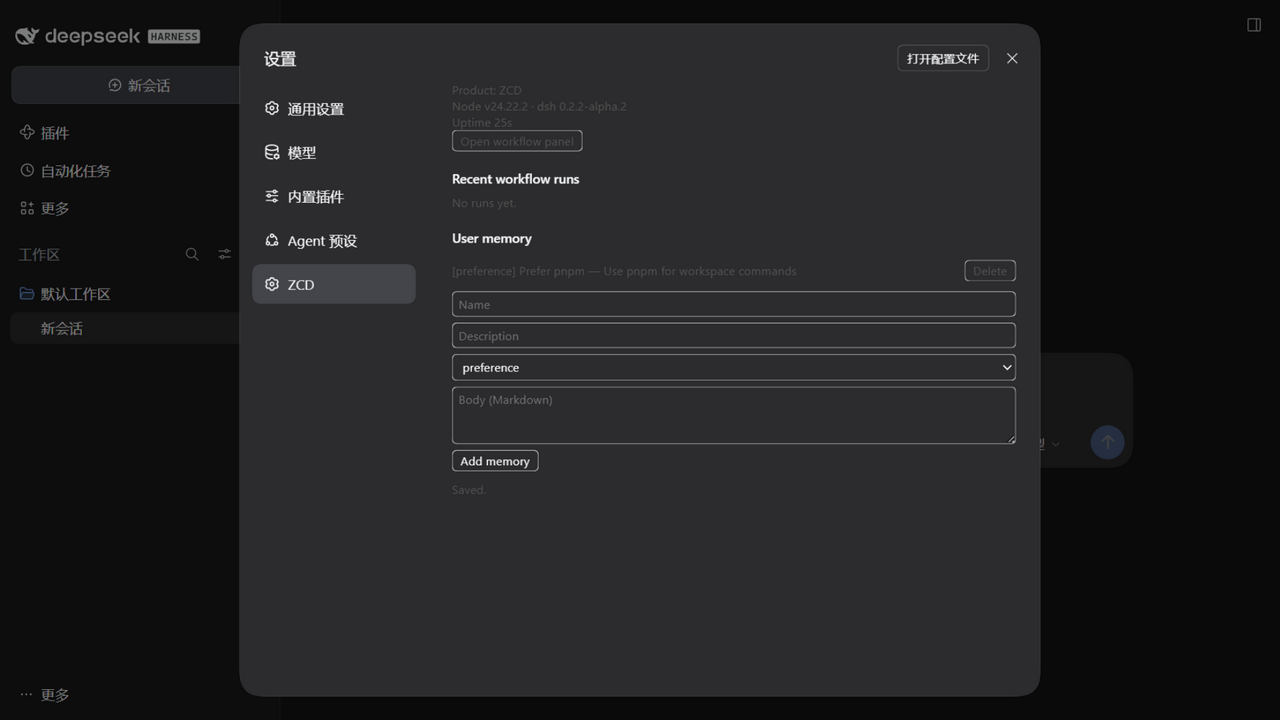
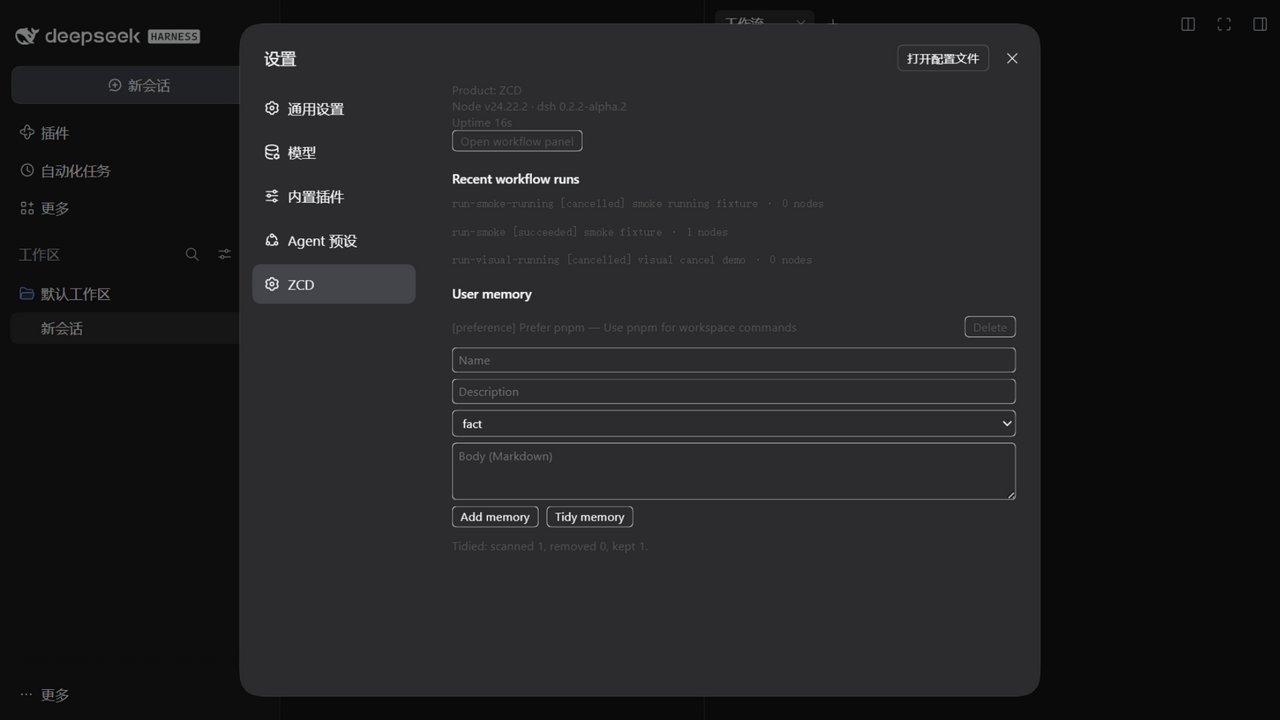
feat(P4): tidy user memory from the settings page

diff --git a/packages/client-ui-settings-zcd/client.js b/packages/client-ui-settings-zcd/client.js
@@ -61,6 +61,18 @@ window.__ModuleLoader__.load({
           .catch((reason) => setMessage(String(reason?.message ?? reason)))
           .finally(() => setBusy(false))
       }
+      const dream = () => {
+        setBusy(true)
+        fetch('/zcd/memory/dream', { method: 'POST' })
+          .then((response) => response.ok ? response.json() : Promise.reject(new Error(String(response.status))))
+          .then((value) => {
+            const report = value.report ?? {}
+            setMessage(`Tidied: scanned ${report.scanned ?? 0}, removed ${report.removed ?? 0}, kept ${report.kept ?? 0}.`)
+            loadMemory()
+          })
+          .catch((reason) => setMessage(String(reason?.message ?? reason)))
+          .finally(() => setBusy(false))
+      }
       const remove = (id) => {
         setBusy(true)
         fetch(`/zcd/memory/${id}`, { method: 'DELETE' })
@@ -135,13 +147,22 @@ window.__ModuleLoader__.load({
           rows: 3,
           style: { ...inputStyle, resize: 'vertical' },
         }),
-        jsx('button', {
-          type: 'button',
-          style: buttonStyle,
-          disabled: busy,
-          onClick: submit,
-          children: busy ? 'Saving…' : 'Add memory',
-        }),
+        jsxs('div', { style: { display: 'flex', gap: '8px' }, children: [
+          jsx('button', {
+            type: 'button',
+            style: buttonStyle,
+            disabled: busy,
+            onClick: submit,
+            children: busy ? 'Saving…' : 'Add memory',
+          }),
+          jsx('button', {
+            type: 'button',
+            style: buttonStyle,
+            disabled: busy,
+            onClick: dream,
+            children: 'Tidy memory',
+          }),
+        ] }),
         message === undefined ? null : jsx('div', { style: cell, children: message }),
       ] })
       return jsxs('div', { style: { display: 'grid', gap: '14px' }, children: [identity, runsBlock, memoryBlock] })

diff --git a/packages/memory-ui-host/src/index.ts b/packages/memory-ui-host/src/index.ts
@@ -97,6 +97,20 @@ export function apply(ctx: Context): void {
         return
       }
 
+      if (url.pathname === '/zcd/memory/dream') {
+        if (req.method !== 'POST') {
+          res.writeHead(405, { allow: 'POST' })
+          res.end()
+          return
+        }
+        try {
+          json(res, 200, { report: ctx.memory.dream('user', undefined) })
+        } catch (error: unknown) {
+          json(res, 500, { error: error instanceof Error ? error.message : 'dream-failed' })
+        }
+        return
+      }
+
       const id = /^\/zcd\/memory\/([A-Za-z0-9_-]+)$/.exec(url.pathname)?.[1]
       if (id !== undefined && req.method === 'DELETE') {
         try {

diff --git a/docs/13-implementation-status.md b/docs/13-implementation-status.md
@@ -57,8 +57,8 @@
 | `@zcd/client-ui-genui` | lazy-CJS：`visualize` 结果渲染为沙箱 iframe | 进入 boot graph | smoke 检查；会话内卡片待模型会话验收 |
 | `@zcd/status-host` | `/zcd/status`：Node/dsh/uptime/最近 runs | 激活成功 | smoke 200 |
 | `@zcd/workflow-ui-host` | `/zcd/workflow/runs` 列表、`/<id>` JSON、`/<id>/nodes`、`/<id>/events`、`POST /<id>/cancel`、`POST /<id>/resume` | 激活成功 | smoke：fixture 列表/节点/事件/cancel + resume 409 契约 |
-| `@zcd/memory-ui-host` | `GET/POST /zcd/memory`、`DELETE /zcd/memory/<id>`（仅 user scope） | 激活成功 | smoke 增删查往返 |
-| `@zcd/client-ui-settings-zcd` | `settings.section` 的 ZCD 页：运行环境、最近 runs、**用户记忆增删** | **视觉验收通过** | [截图](assets/zcd-settings-memory.png) + smoke |
+| `@zcd/memory-ui-host` | `GET/POST /zcd/memory`、`DELETE /zcd/memory/<id>`、`POST /zcd/memory/dream`（仅 user scope） | 激活成功 | smoke 增删查 + dream 往返 |
+| `@zcd/client-ui-settings-zcd` | `settings.section` 的 ZCD 页：运行环境、最近 runs、**用户记忆增删/整理** | **视觉验收通过** | [截图](assets/zcd-settings-memory.png) + smoke |
 | `@zcd/client-ui-workflow` | 右侧栏 workflow tab：3s 轮询 + 节点展开 + 最近 12 条 journal 事件 + 取消/恢复 | **视觉验收通过** | [截图](assets/workflow-panel-resume.png) + smoke |
 | `@zcd/client-ui-zcd` | 文档卡 Open/自动打开、workflow 卡片轮询 + 取消 | 进入 boot graph | smoke 检查 |
 | `@zcd/tool-visualize` | `visualize`：写自包含 HTML，返回沙箱 URL（deferred） | 激活成功 | 2 个单测（落盘/URL、限额/高度） |
@@ -82,7 +82,7 @@
 - 新增 `@zcd/memory-ui-host`，只暴露 **user scope**：全局设置页不需要 workspace 就能管理条目；project scope 继续由会话内的 `memory_*` 工具读写。
 - `GET /zcd/memory` 返回 `{ entries }`；`POST` 接收 `{name, description, type, body}`，`type` 限定 `fact/preference/decision/reference`；`DELETE /zcd/memory/<id>` 删除。
 - 请求体上限 128 KB；错误以 `{ error }` 返回 400/404；响应带 `no-store` 与 `nosniff`。
-- 设置页表单支持选择类型、保存后立即刷新列表、删除后回到空态；视觉验收截图见 `docs/assets/zcd-settings-memory.png`。
+- 设置页表单支持选择类型、保存后立即刷新列表、删除后回到空态、`Tidy memory` 调 `dream` 并展示 scanned/removed/kept；视觉验收截图见 `docs/assets/zcd-settings-memory.png`。
 - `ZCD_USER_MEMORY_HOME` 可覆盖用户记忆根目录，smoke 用它指向一次性目录，避免污染真实的 `~/.zcd/memory`。
 
 ### 1.4 验证证据（可复跑）

diff --git a/README.md b/README.md
@@ -118,7 +118,7 @@
 | 文档 | ✅ 5/5 + 生成 | read/search/open/show/get_view；docx/xlsx/pdf/text 锚点；create_document 基础生成 |
 | Gen UI | ✅ 工具 + 路由 + 卡片 | `visualize` + `/zcd/genui` CSP 沙箱 + lazy-CJS iframe 卡片；路由渲染[截图](docs/assets/zcd-genui-render.png)，会话内卡片待模型会话验收 |
 | Workflow 面板 | ✅ 视觉验收 | 右侧栏 run 列表 + 节点展开 + journal 事件 + 取消/恢复（[截图](docs/assets/workflow-panel-resume.png)） |
-| ZCD 设置页 | ✅ 视觉验收 | 运行环境 + 最近 runs + 用户记忆增删（`/zcd/memory`，[截图](docs/assets/zcd-settings-memory.png)） |
+| ZCD 设置页 | ✅ 视觉验收 | 运行环境 + 最近 runs + 用户记忆增删/整理（`/zcd/memory`，[截图](docs/assets/zcd-settings-memory.png)） |
 | 技能 | ✅ 33 个（覆盖 34/39） | superpowers 14 + dsh-guide 6 + zcd 6（office-viewer/browser-use/visualize/dynamic-workflows/skill-creator/plugin-creator）+ dsh 原生 Office 7 |
 | 浏览器 v1 | ✅ | `@zcd/browser`（headless Chrome）+ 7 个 deferred 工具；每会话一页，真实 Chrome 集成测试 |
 | 外部插件接入 | ✅ doctor | `pnpm doctor` 检查依赖/engines/重复版本/bundle manifest |

diff --git a/docs/05-tool-search-offpeak-memory.md b/docs/05-tool-search-offpeak-memory.md
@@ -306,11 +306,11 @@ export interface MemoryService {
 
 ### 3.4.1 设置页入口（已实现）
 
-- `@zcd/memory-ui-host` 注册 `/zcd/memory`：`GET` 列表、`POST {name, description, type, body}`、`DELETE /<id>`。
+- `@zcd/memory-ui-host` 注册 `/zcd/memory`：`GET` 列表、`POST {name, description, type, body}`、`DELETE /<id>`、`POST /dream`（确定性整理并返回 scanned/removed/kept）。
 - 只开放 **user scope**（`~/.zcd/memory`）：全局设置页没有 workspace，伪造 cwd 会让条目落错位置；项目记忆继续由会话内的 `memory_*` 工具处理。
 - `ZCD_USER_MEMORY_HOME` 覆盖用户记忆根目录；smoke 指向一次性目录，避免污染真实用户目录。
 - 写入仍走 `MemoryService.write`，因此 slug、secret 扫描、大小/条数上限与文件布局完全一致；设置页不是第二条写入路径。
-- 前端在 `@zcd/client-ui-settings-zcd` 的 `ZCD` section 内，保存/删除后立即重新拉取列表。
+- 前端在 `@zcd/client-ui-settings-zcd` 的 `ZCD` section 内，保存/删除/Tidy memory 后立即重新拉取列表。
 
 ### 3.5 上下文注入
 

diff --git a/docs/07-ui-genui-office-settings.md b/docs/07-ui-genui-office-settings.md
@@ -205,7 +205,7 @@ get_view({ path? })
 
 - 一个包 `@zcd/client-ui-settings-zcd` 注册一个 `ZCD` section，页内分三块：运行环境、最近 workflow runs、用户记忆；其余导航复用 dsh 已有页面。
 - section 必须 `inject: ['slots','locale']` 并调用 `ctx.locale.register(NS, { zh, en })`，否则导航项有、正文为空（已踩坑）。
-- 用户记忆编辑器直接调 `@zcd/memory-ui-host` 注册的 `/zcd/memory`：`GET` 列表、`POST` 新增、`DELETE /<id>` 删除；只操作 **user scope**，避免全局设置页伪造 workspace。
+- 用户记忆编辑器直接调 `@zcd/memory-ui-host` 注册的 `/zcd/memory`：`GET` 列表、`POST` 新增、`DELETE /<id>` 删除、`POST /dream` 整理；只操作 **user scope**，避免全局设置页伪造 workspace。
 - 后续 section（Agents / Tools / Workflow 配置）走 `ctx.configForms.get('<entry-id>')`，不直接改文件；表单优先复用 dsh 的 `SettingsForm`。
 - 文案走 locale 字典（en/zh），不硬编码；`buttons/input` 用宿主 CSS 变量，深浅色都能读。
 
